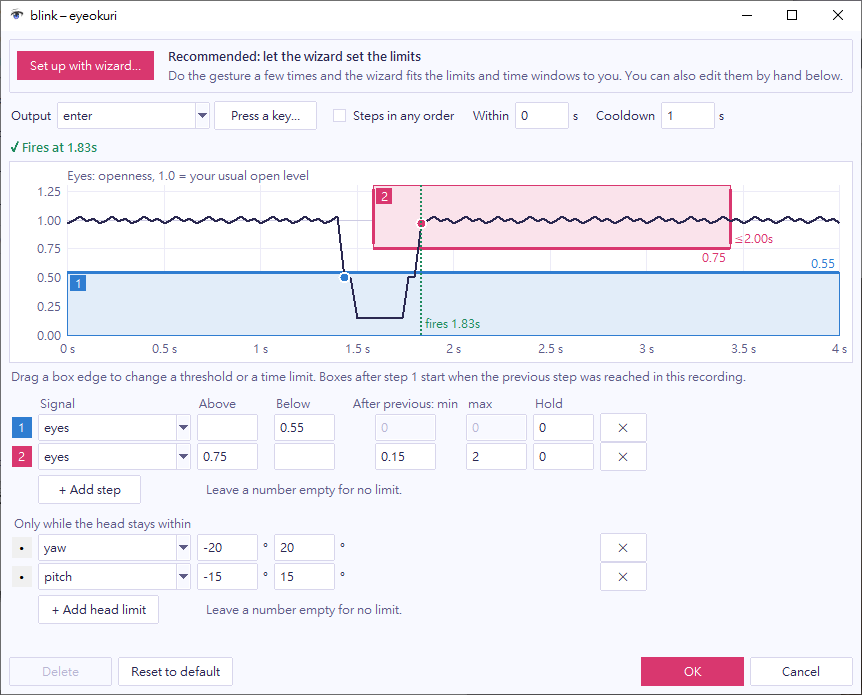
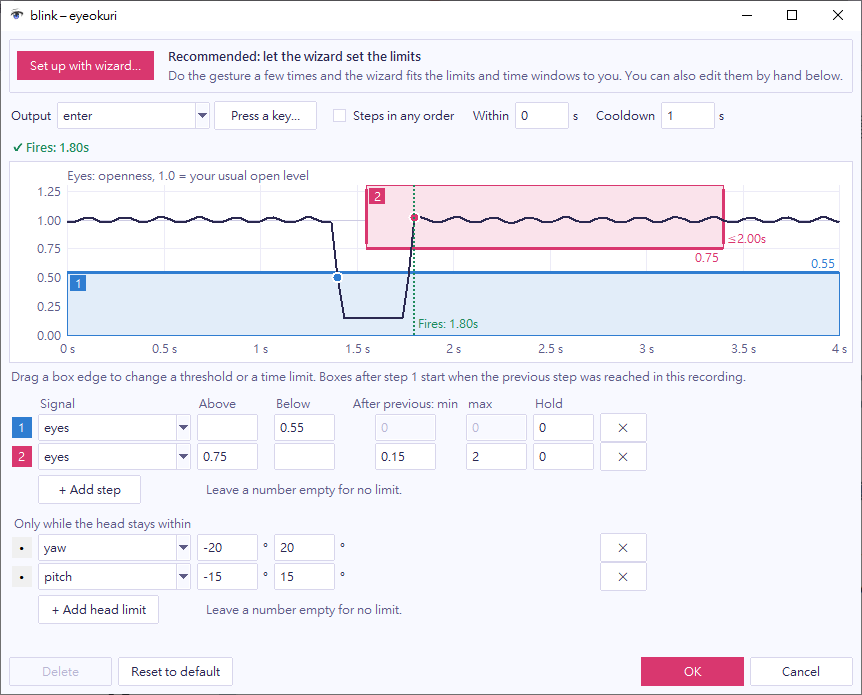
Match the edit-a-gesture guide to the Fires line
The guide quoted "✓ Fires at 1.83s", but the gesture window shows
"✓ Fires: 1.83s". Fix the text and retake the screenshot with
tools/capture_screenshots.py so it shows the same line.

diff --git a/site/src/content/docs/guide/edit-a-gesture.md b/site/src/content/docs/guide/edit-a-gesture.md
@@ -22,7 +22,7 @@ The blink in the screenshot has two steps. Box 1 is "eyes below 0.55", and box 2
 ## Test your settings
 
 1. Open the gesture window and do the gesture.
-2. Read the line above the plot. It says `✓ Fires at 1.83s`, or why the gesture doesn't fire, for example `✕ Step 2 came 0.12s after step 1 (too short, min 0.15s)`.
+2. Read the line above the plot. It says `✓ Fires: 1.83s`, or why the gesture doesn't fire, for example `✕ Step 2 came 0.12s after step 1 (too short, min 0.15s)`.
 3. Change a setting and read the line again. It updates as you change the settings.
 
 The plot keeps only the eye and head numbers, in memory. It never keeps images.
